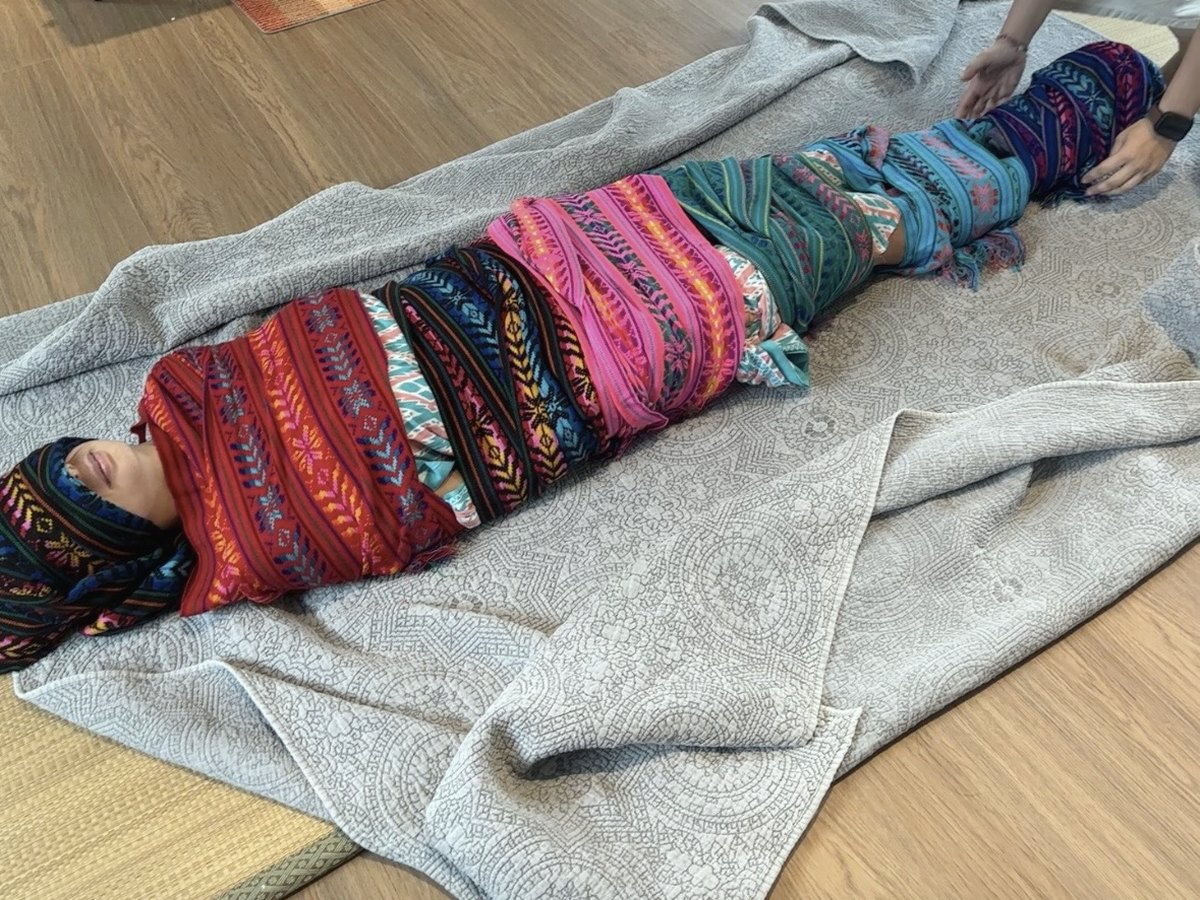
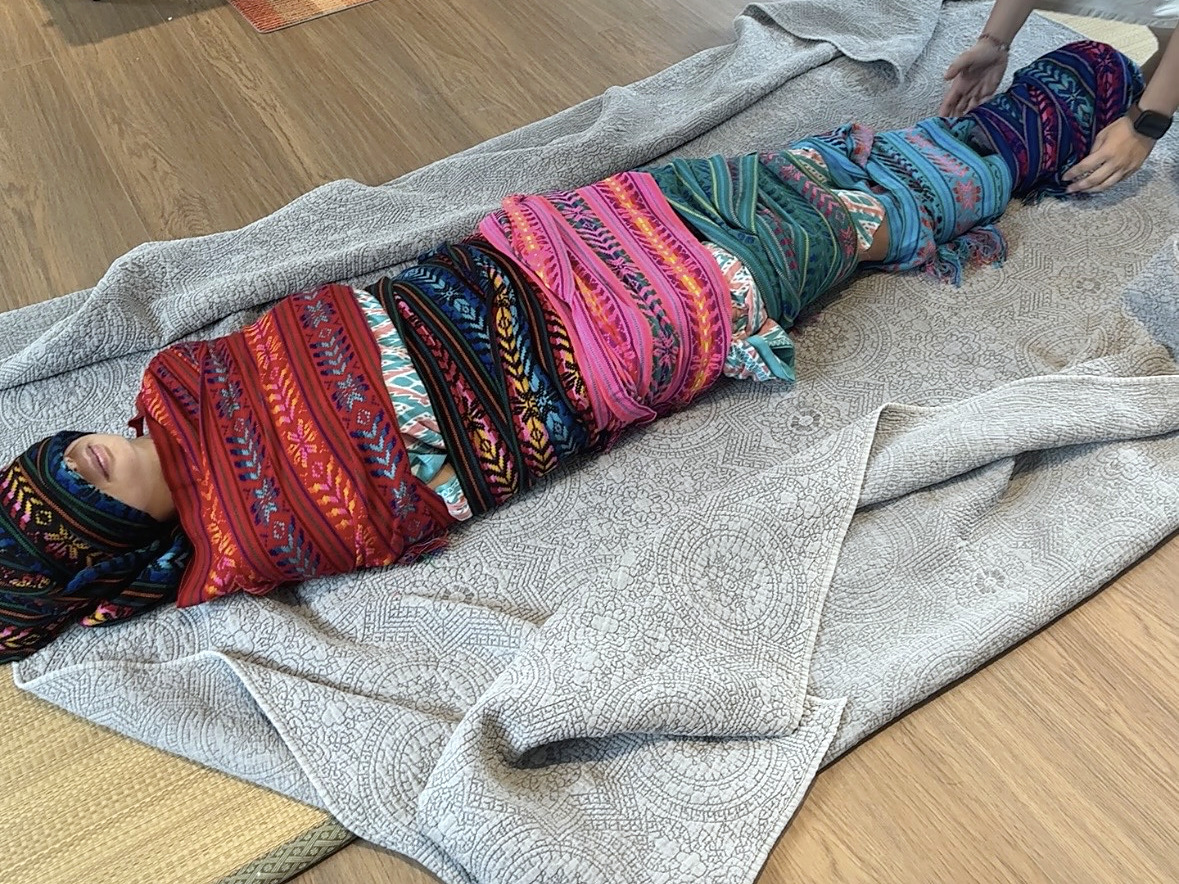
阿育吠陀頁細修：拿掉食材對照段、首屏標語改成文字樣式、束腹換高畫質照、關骨照重新輸出

diff --git a/ja/ayurveda/index.html b/ja/ayurveda/index.html
@@ -902,6 +902,26 @@
         #F2E9DC;
     }
   }
+
+  /* Hero tagline: quiet text, not a button */
+  .hero-tag {
+    display: inline-flex;
+    align-items: center;
+    gap: 14px;
+    background: none;
+    color: var(--primary-dark);
+    padding: 0;
+    border-radius: 0;
+    font-size: 14px;
+    letter-spacing: 0.22em;
+    margin-bottom: 8px;
+  }
+  .hero-tag::before, .hero-tag::after {
+    content: "";
+    width: 28px;
+    height: 1px;
+    background: var(--gold);
+  }
 </style>
 <script type="application/ld+json">
 {
@@ -1368,23 +1388,6 @@
       <p>空・風・火・水・地——アーユルヴェーダでは、宇宙をかたちづくるものが、そのままあなたをかたちづくっていると考えます。五大元素から、あなた自身の体質へ、そして心の三つの性質へ。いまのあなたが何から織られているのかを見にいく、やさしい旅です。</p>
       <a href="/ayurveda/understand/" class="btn">元素の旅をひらく →</a>
       <div class="quiz-meta">🪷 インタラクティブな旅 · 五大元素 × 三つのドーシャ × 三つのグナ</div>
-    </div>
-  </div>
-</section>
-
-<section style="padding-top: 0;">
-  <div class="container">
-    <div class="quiz-banner">
-      <div class="quiz-dots">
-        <span style="background:#C89B3C;" title="Turmeric"></span>
-        <span style="background:#B8654A;" title="Cumin"></span>
-        <span style="background:#7FA88B;" title="Fennel"></span>
-      </div>
-      <div class="section-eyebrow">Kitchen · 台所からはじめる</div>
-      <h2>巡りは、日々の食べものからも整えられます</h2>
-      <p>施術のほかに、毎日なにを食べるかも同じくらい影響します。これはそのまま引ける対照表です——49 種のスパイス・ハーブ・台湾の身近な食材。まず症状から引き、食材を見つけ、使い方と分量を確かめる。張り、むくみ、ほてり、眠りの浅さ、それぞれに載っています。</p>
-      <a href="/ayurveda/ingredients/" class="btn">食材の対照表をひらく →</a>
-      <div class="quiz-meta">🌿 49 種の食材 · 症状や働きから絞り込み · 検索できます</div>
     </div>
   </div>
 </section>

diff --git a/en/ayurveda/index.html b/en/ayurveda/index.html
@@ -933,6 +933,26 @@
         #F2E9DC;
     }
   }
+
+  /* Hero tagline: quiet text, not a button */
+  .hero-tag {
+    display: inline-flex;
+    align-items: center;
+    gap: 14px;
+    background: none;
+    color: var(--primary-dark);
+    padding: 0;
+    border-radius: 0;
+    font-size: 14px;
+    letter-spacing: 0.22em;
+    margin-bottom: 8px;
+  }
+  .hero-tag::before, .hero-tag::after {
+    content: "";
+    width: 28px;
+    height: 1px;
+    background: var(--gold);
+  }
 </style>
   <script src="/analytics.js" defer></script>
 </head>
@@ -1381,23 +1401,6 @@
       <p>Space, air, fire, water, earth — Ayurveda holds that whatever makes the universe also makes you. This is a gentle interactive journey: from the five great elements, to your own constitution, and on to the three qualities of mind — so you can see what this moment of you is woven from.</p>
       <a href="/ayurveda/understand/" class="btn">Open the element journey →</a>
       <div class="quiz-meta">🪷 Interactive journey · five elements × three doshas × three gunas</div>
-    </div>
-  </div>
-</section>
-
-<section style="padding-top: 0;">
-  <div class="container">
-    <div class="quiz-banner">
-      <div class="quiz-dots">
-        <span style="background:#C89B3C;" title="Turmeric"></span>
-        <span style="background:#B8654A;" title="Cumin"></span>
-        <span style="background:#7FA88B;" title="Fennel"></span>
-      </div>
-      <div class="section-eyebrow">Kitchen · Where it begins</div>
-      <h2>Much of the damp and the heat can be settled from the kitchen</h2>
-      <p>Beyond the treatment room, what you eat each day matters just as much. This is a table you can look things up in directly — 49 spices, herbs and everyday Taiwanese ingredients. Start from the symptom, find the ingredient, then see how to use it and how much. Bloating, water retention, heat, restless sleep: each has an entry.</p>
-      <a href="/ayurveda/ingredients/" class="btn">Open the ingredient table →</a>
-      <div class="quiz-meta">🌿 49 ingredients · filter by symptom or action · searchable</div>
     </div>
   </div>
 </section>

diff --git a/ayurveda/index.html b/ayurveda/index.html
@@ -951,6 +951,26 @@
         #F2E9DC;
     }
   }
+
+  /* Hero tagline: quiet text, not a button */
+  .hero-tag {
+    display: inline-flex;
+    align-items: center;
+    gap: 14px;
+    background: none;
+    color: var(--primary-dark);
+    padding: 0;
+    border-radius: 0;
+    font-size: 14px;
+    letter-spacing: 0.22em;
+    margin-bottom: 8px;
+  }
+  .hero-tag::before, .hero-tag::after {
+    content: "";
+    width: 28px;
+    height: 1px;
+    background: var(--gold);
+  }
 </style>
 <script type="application/ld+json">
 {
@@ -1424,24 +1444,6 @@
       <p>空、風、火、水、土——阿育吠陀說，組成宇宙的，也組成了妳。這是一頁溫柔的互動旅程，帶妳從宇宙的五大元素，走到自己的體質，再到心的三種品質，看見此刻的自己是由什麼編織而成。</p>
       <a href="understand/" class="btn">展開元素旅程 →</a>
       <div class="quiz-meta">🪷 互動旅程 · 五大元素 × 三督夏 × 三德</div>
-    </div>
-  </div>
-</section>
-
-<!-- 食材對照 CTA -->
-<section style="padding-top: 0;">
-  <div class="container">
-    <div class="quiz-banner">
-      <div class="quiz-dots">
-        <span style="background:#C89B3C;" title="薑黃"></span>
-        <span style="background:#B8654A;" title="孜然"></span>
-        <span style="background:#7FA88B;" title="茴香"></span>
-      </div>
-      <div class="section-eyebrow">Kitchen · 從廚房開始</div>
-      <h2>台式的「悶、濕、黏」，廚房就能調</h2>
-      <p>療程之外，日常吃什麼同樣有影響。這是一份可以直接查的對照表——49 種香料、藥草與台灣在地食材，先看症狀，再找食材，最後看怎麼吃。脹氣、水腫、上火、睡不好，都能查得到對應的用法與用量。</p>
-      <a href="ingredients/" class="btn">打開食材對照 →</a>
-      <div class="quiz-meta">🌿 49 種食材 · 依症狀或作用方向篩選 · 可直接搜尋</div>
     </div>
   </div>
 </section>
